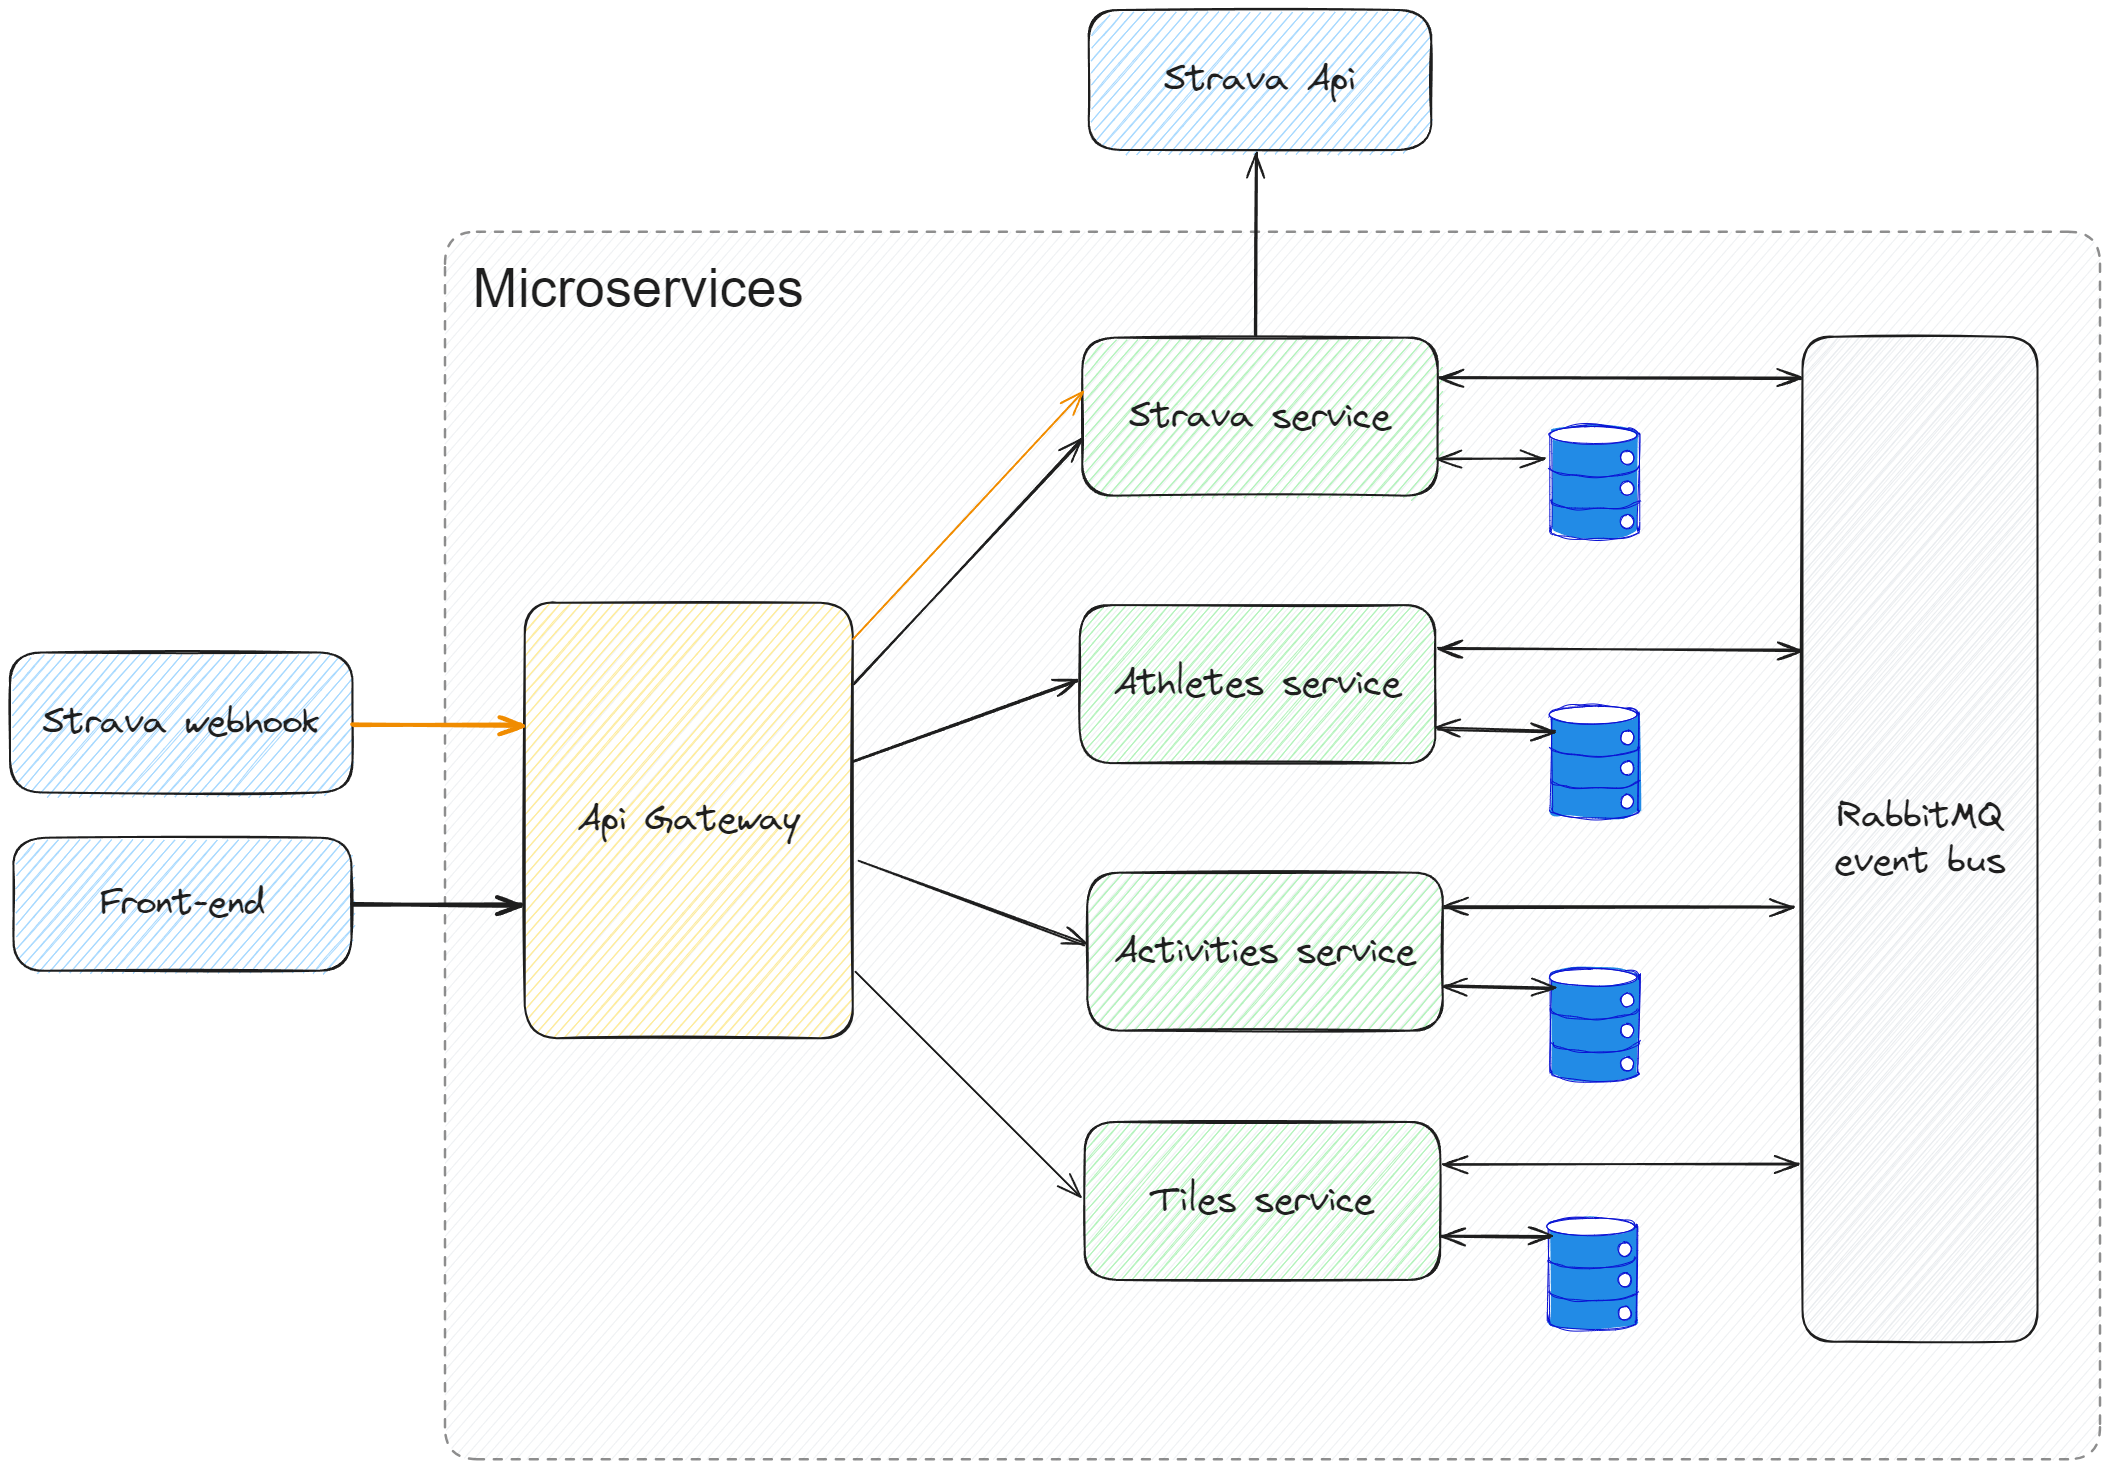
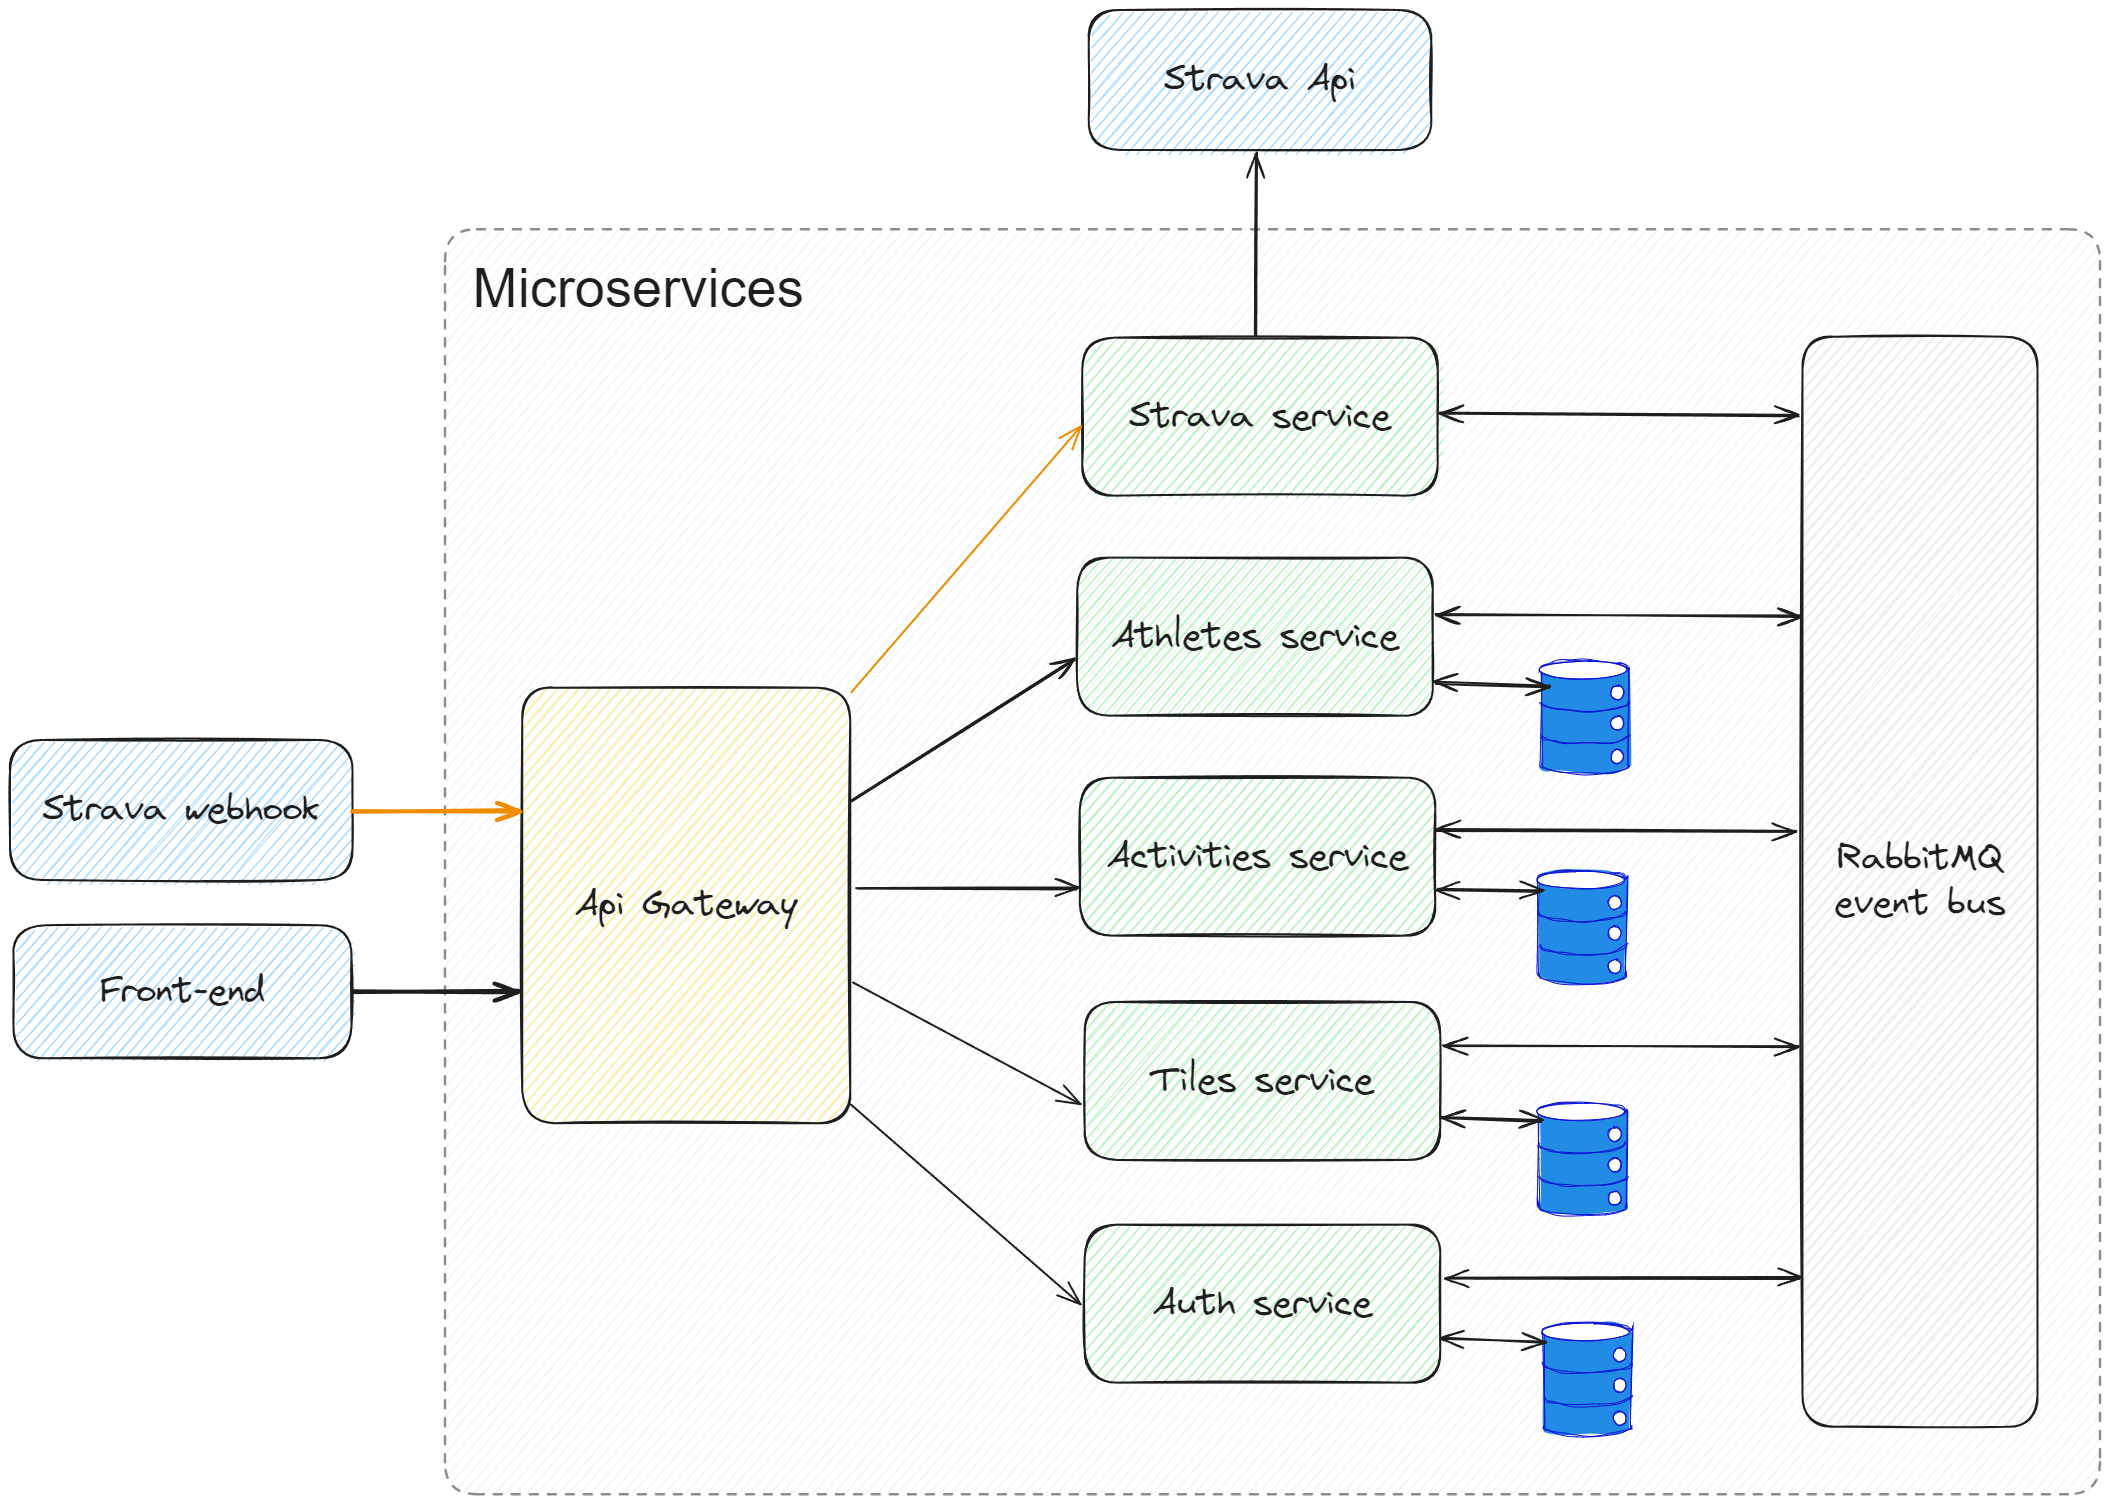
Update README.md

diff --git a/README.md b/README.md
@@ -30,10 +30,11 @@ Project is created with:
 | Element | Responsibility |
 | ------- | :------------- |
 | Api Gateway        | Api Gateway is only one element in microservice that is the single entry point for clients. Gateway is responsible for redirect requests to appropriate service. It also handling main full security verification of JWT authentication so the services can decode it without secret key. |
-| Strava service     | Strava service is responsible for users authentication, storing strava users tokens, call external Strava API for athletes/activities information and receiving strava webhook events. |
-| Athletes service   | Athletes service responsible for storing athletes data. |
-| Activities service | Activities service responsible for storing activities data. |
-| Tiles service | Activities service responsible for visited tiles calculation & storing data. Main responsibility is receiving track data and calculate it to tiles (more about tiles [here](https://developer.tomtom.com/map-display-api/documentation/zoom-levels-and-tile-grid)). |
+| Strava service     | Strava service is responsible for sending request to Strava external service and publish responses to appropriate service via message broker. |
+| Athletes service   | Athletes service is responsible for storing athletes data. |
+| Activities service | Activities service is responsible for storing activities data. |
+| Tiles service | Activities service is responsible for calculating visited tiles & storing data. Main responsibility is receiving track data and calculate it to tiles (more about tiles [here](https://developer.tomtom.com/map-display-api/documentation/zoom-levels-and-tile-grid)). |
+| Auth service | Auth service is responsible for users authentication. |
 
 ## Installation
 
@@ -143,7 +144,6 @@ curl -X GET http://localhost:5000/api/activity \
 List of things to-do in future:
 
 - Add service with badges
-- Create unit tests
+- Add unit tests
 - Check if activities without GPX track saving properly
-- Move authorization logic to separate service
 - Create README file for each service
